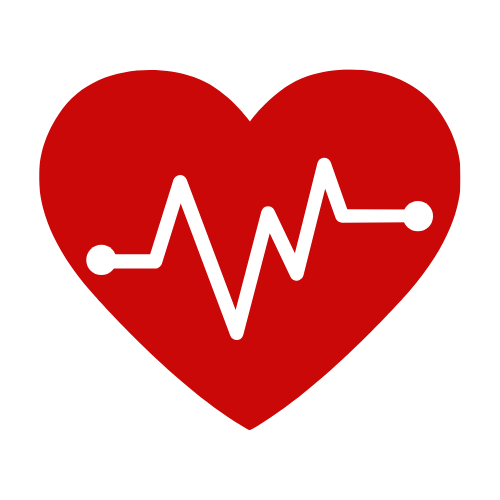
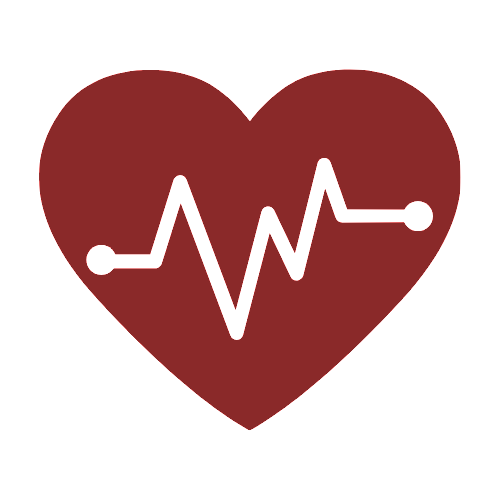
Changed colors

diff --git a/frontend/components/Questionnaire.tsx b/frontend/components/Questionnaire.tsx
@@ -104,15 +104,15 @@ export default function Questionnaire() {
   };
 
   return (
-    <div className="mt-32 mb-32 p-6 max-w-7xl mx-auto">
-      <h1 className="text-[#CA0808] text-3xl font-bold mb-6">Let's get to know you better!</h1>
+    <div className="mt-6 p-6 max-w-7xl mx-auto">
+      <h1 className="text-[#8a2929] text-3xl font-bold mb-6">Let's get to know you better!</h1>
 
       {/* Form for user input */}
       <form onSubmit={handleSubmit}>
         <div className="flex flex-col space-y-6">
           {/* Name Field */}
           <div className="flex flex-col">
-            <label className="text-[#CA0808] font-semibold mb-2" htmlFor="name">
+            <label className="text-[#8a2929] font-semibold mb-2" htmlFor="name">
               What's your name?
             </label>
             <input
@@ -121,14 +121,14 @@ export default function Questionnaire() {
               value={name}
               onChange={(e) => setName(e.target.value)}
               required
-              className="p-2 border border-gray-300 rounded-lg focus:outline-none focus:ring-2 focus:ring-[#CA0808]"
+              className="p-2 border border-gray-300 rounded-lg focus:outline-none focus:ring-2 focus:ring-[#8a2929]"
               placeholder="Answer here"
             />
           </div>
 
           {/* Age Field */}
           <div className="flex flex-col">
-            <label className="text-[#CA0808] font-semibold mb-2" htmlFor="age">
+            <label className="text-[#8a2929] font-semibold mb-2" htmlFor="age">
               What's your age?
             </label>
             <input
@@ -137,7 +137,7 @@ export default function Questionnaire() {
               value={age}
               onChange={(e) => setAge(e.target.value)}
               required
-              className="p-2 border border-gray-300 rounded-lg focus:outline-none focus:ring-2 focus:ring-[#CA0808]"
+              className="p-2 border border-gray-300 rounded-lg focus:outline-none focus:ring-2 focus:ring-[#8a2929]"
               placeholder="Answer here"
               min="18"
               max="100"
@@ -147,14 +147,14 @@ export default function Questionnaire() {
 
           {/* Race Dropdown */}
           <div className="flex flex-col">
-            <label className="text-[#CA0808] font-semibold mb-2" htmlFor="race">
+            <label className="text-[#8a2929] font-semibold mb-2" htmlFor="race">
               Race
             </label>
             <select
               id="race"
               value={race}
               onChange={(e) => setRace(e.target.value)}
-              className="p-2 border border-gray-300 rounded-lg focus:outline-none focus:ring-2 focus:ring-[#CA0808]"
+              className="p-2 border border-gray-300 rounded-lg focus:outline-none focus:ring-2 focus:ring-[#8a2929]"
               required
             >
               <option value="" disabled>Select your race</option>
@@ -168,14 +168,14 @@ export default function Questionnaire() {
 
           {/* Sex Dropdown */}
           <div className="flex flex-col">
-            <label className="text-[#CA0808] font-semibold mb-2" htmlFor="sex">
+            <label className="text-[#8a2929] font-semibold mb-2" htmlFor="sex">
               Sex
             </label>
             <select
               id="sex"
               value={sex}
               onChange={(e) => setSex(e.target.value)}
-              className="p-2 border border-gray-300 rounded-lg focus:outline-none focus:ring-2 focus:ring-[#CA0808]"
+              className="p-2 border border-gray-300 rounded-lg focus:outline-none focus:ring-2 focus:ring-[#8a2929]"
               required
             >
               <option value="" disabled>Select your sex</option>
@@ -189,7 +189,7 @@ export default function Questionnaire() {
 
           {/* Condition Checklist */}
           <div className="flex flex-col">
-            <label className="text-[#CA0808] font-semibold mb-2">
+            <label className="text-[#8a2929] font-semibold mb-2">
               Select your conditions:
             </label>
             {conditions.map((condition, index) => (
@@ -214,7 +214,7 @@ export default function Questionnaire() {
           {/* Submit Button */}
           <button
             type="submit"
-            className="bg-[#CA0808] text-white px-6 py-2 rounded-lg hover:bg-red-800 transition duration-300 w-full md:w-auto"
+            className="bg-[#8a2929] text-white px-6 py-2 rounded-lg hover:bg-red-800 transition duration-300 w-full md:w-auto"
           >
             Submit
           </button>

diff --git a/frontend/app/signup/page.tsx b/frontend/app/signup/page.tsx
@@ -42,7 +42,7 @@ export default function SignUpPage() {
   return (
     <div className="min-h-screen flex items-center justify-center bg-gray-50">
       <div className="max-w-md w-full space-y-8 p-8 bg-white rounded-lg shadow-lg">
-        <h2 className="text-3xl font-bold text-center text-[#CA0808]">Create Account</h2>
+        <h2 className="text-3xl font-bold text-center text-[#8a2929]">Create Account</h2>
         <form className="mt-8 space-y-6" onSubmit={handleSubmit(onSubmit)}>
           <div>
             <label className="block text-sm font-medium text-gray-700">
@@ -51,7 +51,7 @@ export default function SignUpPage() {
             <input
               {...register('name', { required: 'Name is required' })}
               type="text"
-              className="mt-1 block w-full rounded-md border-gray-300 shadow-sm focus:border-[#CA0808] focus:ring-[#CA0808]"
+              className="mt-1 block w-full rounded-md border-gray-300 shadow-sm focus:border-[#8a2929] focus:ring-[#8a2929]"
             />
             {errors.name && (
               <p className="text-red-600 text-sm mt-1">{errors.name.message?.toString()}</p>
@@ -71,7 +71,7 @@ export default function SignUpPage() {
                 }
               })}
               type="email"
-              className="mt-1 block w-full rounded-md border-gray-300 shadow-sm focus:border-[#CA0808] focus:ring-[#CA0808]"
+              className="mt-1 block w-full rounded-md border-gray-300 shadow-sm focus:border-[#8a2929] focus:ring-[#8a2929]"
             />
             {errors.email && (
               <p className="text-red-600 text-sm mt-1">{errors.email.message?.toString()}</p>
@@ -91,7 +91,7 @@ export default function SignUpPage() {
                 }
               })}
               type="password"
-              className="mt-1 block w-full rounded-md border-gray-300 shadow-sm focus:border-[#CA0808] focus:ring-[#CA0808]"
+              className="mt-1 block w-full rounded-md border-gray-300 shadow-sm focus:border-[#8a2929] focus:ring-[#8a2929]"
             />
             {errors.password && (
               <p className="text-red-600 text-sm mt-1">{errors.password.message?.toString()}</p>
@@ -100,7 +100,7 @@ export default function SignUpPage() {
 
           <button
             type="submit"
-            className="w-full bg-[#CA0808] text-white py-2 px-4 rounded-md hover:bg-[#B30707] transition-colors"
+            className="w-full bg-[#8a2929] text-white py-2 px-4 rounded-md hover:bg-[#B30707] transition-colors"
           >
             Sign Up
           </button>
@@ -110,7 +110,7 @@ export default function SignUpPage() {
           <span className="text-gray-600">Already have an account? </span>
           <Link 
             href="/signin" 
-            className="text-[#CA0808] hover:text-[#B30707] font-semibold"
+            className="text-[#8a2929] hover:text-[#B30707] font-semibold"
           >
             Sign In
           </Link>

diff --git a/frontend/app/signin/page.tsx b/frontend/app/signin/page.tsx
@@ -23,7 +23,7 @@ export default function SignInPage() {
   return (
     <div className="min-h-screen flex items-center justify-center bg-gray-50">
       <div className="max-w-md w-full space-y-8 p-8 bg-white rounded-lg shadow-lg">
-        <h2 className="text-3xl font-bold text-center text-[#CA0808]">Sign In</h2>
+        <h2 className="text-3xl font-bold text-center text-[#8a2929]">Sign In</h2>
         <form className="mt-8 space-y-6" onSubmit={handleSubmit(onSubmit)}>
           <div>
             <label className="block text-sm font-medium text-gray-700">
@@ -33,7 +33,7 @@ export default function SignInPage() {
               {...register('email', { required: 'Email is required' })}
               type="email"
               required
-              className="mt-1 block w-full rounded-md border-gray-300 shadow-sm focus:border-[#CA0808] focus:ring-[#CA0808]"
+              className="mt-1 block w-full rounded-md border-gray-300 shadow-sm focus:border-[#8a2929] focus:ring-[#8a2929]"
             />
             {errors.email && (
               <p className="text-red-600 text-sm mt-1">{errors.email.message?.toString()}</p>
@@ -47,7 +47,7 @@ export default function SignInPage() {
               {...register('password', { required: 'Password is required' })}
               type="password"
               required
-              className="mt-1 block w-full rounded-md border-gray-300 shadow-sm focus:border-[#CA0808] focus:ring-[#CA0808]"
+              className="mt-1 block w-full rounded-md border-gray-300 shadow-sm focus:border-[#8a2929] focus:ring-[#8a2929]"
             />
             {errors.password && (
               <p className="text-red-600 text-sm mt-1">{errors.password.message?.toString()}</p>
@@ -55,7 +55,7 @@ export default function SignInPage() {
           </div>
           <button
             type="submit"
-            className="w-full bg-[#CA0808] text-white py-2 px-4 rounded-md hover:bg-[#B30707] transition-colors"
+            className="w-full bg-[#8a2929] text-white py-2 px-4 rounded-md hover:bg-[#B30707] transition-colors"
           >
             Sign In
           </button>
@@ -66,7 +66,7 @@ export default function SignInPage() {
           <span className="text-gray-600">Don't have an account? </span>
           <Link
             href="/signup"
-            className="text-[#CA0808] hover:text-[#B30707] font-semibold"
+            className="text-[#8a2929] hover:text-[#B30707] font-semibold"
           >
             Sign Up
           </Link>

diff --git a/frontend/components/NavBar.tsx b/frontend/components/NavBar.tsx
@@ -8,7 +8,7 @@ export default function NavBar() {
   const { data: session } = useSession();
 
   return (
-    <nav className="bg-[#CA0808] border-gray-200 h-16">
+    <nav className="bg-[#8a2929] border-gray-200 h-16">
       <div className="max-w-screen-xl flex flex-wrap items-center justify-between mx-auto p-4 relative h-full">
         {/* Logo on left - Unchanged */}
         <Link href="/" className="flex items-center space-x-3 rtl:space-x-reverse z-10">
@@ -56,7 +56,7 @@ export default function NavBar() {
             // Show sign out button when authenticated
             <button
               onClick={() => signOut()}
-              className="bg-white text-[#CA0808] px-6 py-2 rounded-full text-lg font-semibold 
+              className="bg-white text-[#8a2929] px-6 py-2 rounded-full text-lg font-semibold 
                        hover:text-[#ff0000] transition-colors duration-200 shadow-sm
                        hover:shadow-md"
             >
@@ -67,15 +67,15 @@ export default function NavBar() {
             <>
               <Link
                 href="/signin"
-                className="bg-white text-[#CA0808] px-6 py-2 rounded-full text-lg font-semibold 
+                className="bg-white text-[#8a2929] px-6 py-2 rounded-full text-lg font-semibold 
                          hover:scale-105 transition-transform duration-200 shadow-sm hover:shadow-md"
               >
                 Sign In
               </Link>
               <Link
                 href="/signup"
-                className="bg-white text-[#CA0808] px-6 py-2 rounded-full text-lg font-semibold 
-                         hover:scale-105 transition-transform duration-200 shadow-sm hover:shadow-md border-2 border-[#CA0808]"
+                className="bg-white text-[#8a2929] px-6 py-2 rounded-full text-lg font-semibold 
+                         hover:scale-105 transition-transform duration-200 shadow-sm hover:shadow-md border-2 border-[#8a2929]"
               >
                 Sign Up
               </Link>

diff --git a/frontend/app/page.tsx b/frontend/app/page.tsx
@@ -20,22 +20,22 @@ export default function Home() {
             />
           </div>
 
-          <div className="text-[#CA0808] flex justify-center items-center flex-col ">
+          <div className="text-[#8a2929] flex justify-center items-center flex-col ">
             <h1 className="text-5xl font-bold mt-8 md:text-6xl lg:text-7xl">HEART2HEART </h1>
             <p className="text-xl mb-32 italic">Small Steps, Big Impact</p>
           </div>
 
           <div className="grid grid-cols-1 md:grid-cols-2 lg:grid-cols-3 gap-6 mt-8">
             <div className="bg-white p-6 rounded-lg shadow-lg hover:scale-105 transition-transform duration-300">
-              <h2 className="text-2xl font-semibold text-[#CA0808]">Daily Checklist</h2>
+              <h2 className="text-2xl font-semibold text-[#8a2929]">Daily Checklist</h2>
               <p className="mt-2 text-gray-600">Recommended daily tasks improve your health</p>
             </div>
             <div className="bg-white p-6 rounded-lg shadow-lg hover:scale-105 transition-transform duration-300">
-              <h2 className="text-2xl font-semibold text-[#CA0808]">Chatbot</h2>
+              <h2 className="text-2xl font-semibold text-[#8a2929]">Chatbot</h2>
               <p className="mt-2 text-gray-600">Interact with our AI-powered chatbot.</p>
             </div>
             <div className="bg-white p-6 rounded-lg shadow-lg hover:scale-105 transition-transform duration-300">
-              <h2 className="text-2xl font-semibold text-[#CA0808]">Tracker</h2>
+              <h2 className="text-2xl font-semibold text-[#8a2929]">Tracker</h2>
               <p className="mt-2 text-gray-600">Track your health metrics with ease.</p>
             </div>
           </div>

diff --git a/frontend/app/todo/page.tsx b/frontend/app/todo/page.tsx
@@ -6,6 +6,9 @@ export default function TodoList() {
   return (
     <div>
       <NavBar />
+      <h1 className = "text-[#8a2929] text-5xl font-bold mb-6 flex justify-center items-center mt-16">
+        To-Do-List
+      </h1>
       <Questionnaire />
     </div>
   );

diff --git a/frontend/components/Footer.tsx b/frontend/components/Footer.tsx
@@ -1,6 +1,6 @@
 export default function Footer() {
   return (
-    <footer className="bg-[#CA0808] text-white text-center p-4">
+    <footer className="bg-[#8a2929] text-white text-center p-4">
       <p>© 2025 Heart2Heart. No rights reserved.</p>
     </footer>
   );
